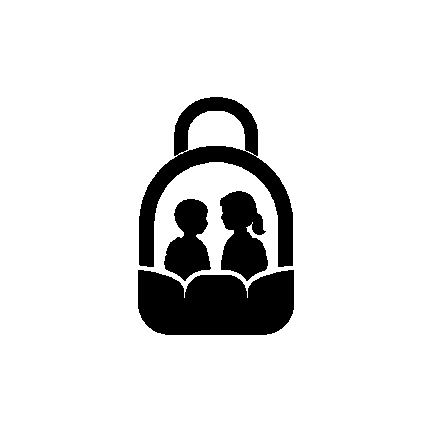
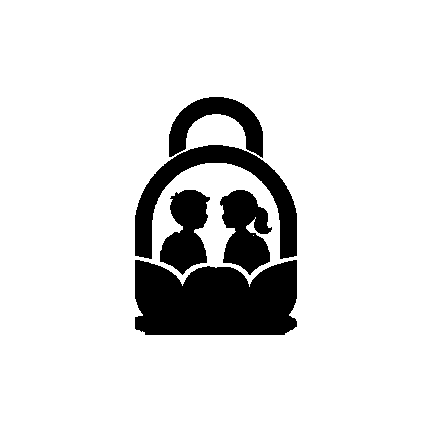
استبدال الشعار بالنسخة الجديدة في كل وجهة
All eleven derived files are regenerated from the new artwork: the app icon,
the Android adaptive layers, the splash, the favicon, the four PWA sizes and
the link-preview card. The sign-in screen imports assets/icon.png directly, so
it followed without a second change.

The crop boxes were re-measured, not reused — the composition moved (MARK is
now 231,163 561x823, LOCKUP 155,163 737x1162). Separating the two needed care:
at an ink threshold of 60 the bag's drop shadow bridges the gap to the wordmark
and they scan as one block. At 90 and above they part cleanly at y≈985, which
is what the boxes are taken from.

The ground also changed, #FCF7F1 to #FFFBF0, so the five surfaces that sit
behind the artwork move with it — backgroundColor, the splash, the Android
adaptive background in app.json, and background_color in the manifest.
Leaving any of them behind would draw a pale square around the logo. The brand
README now says so in as many words, since the next logo change will hit it.

Verified by fetching every icon the built page declares, the way the browser
does: nine targets, all 200, all at the new sizes.

The previous logo stays in brand/ for reference; nothing derives from it.

diff --git a/brand/README.md b/brand/README.md
@@ -1,18 +1,21 @@
 # العلامة البصرية
 
-`logo.png` هو **المصدر الوحيد** لكل أيقونات التطبيق — 1254×1254، بلا شفافية،
-خلفيته `#FCF7F1`. كل ملف في `apps/mobile/assets/` و `apps/mobile/public/`
-مشتقّ منه، فلا تعدّلها يدوياً: عدّل المصدر وأعد التوليد.
+`logo.jpeg` هو **المصدر الوحيد** لكل أيقونات التطبيق — 1024×1536، خلفيته `#FFFBF0`.
+كل ملف في `apps/mobile/assets/` و `apps/mobile/public/` مشتقّ منه، فلا تعدّلها
+يدوياً: عدّل المصدر وأعد التوليد.
+
+> `logo.png` هو الشعار السابق، محفوظ للرجوع إليه فقط ولا يُشتقّ منه شيء.
 
 ## الاقتطاعان
 
-قياسات بالبكسل داخل المصدر، مستخرجة بمسح البكسل (كل ما يفرق عن لون الخلفية
-بأكثر من 26 في مجموع RGB يُعدّ حبراً):
+قياسات بالبكسل داخل المصدر، مستخرجة بمسح البكسل. الفصل بين الرمز والكلمة عند
+`y≈985`: عتبة الحبر عند 60 تجعل ظلّ الحقيبة يجسر الفجوة فتبدو الكتلتان واحدة،
+وعند 90 فأعلى ينفصلان بثبات.
 
 | الاسم    | x   | y   | العرض | الارتفاع | المحتوى             |
 | -------- | --- | --- | ----- | -------- | ------------------- |
-| `MARK`   | 348 | 81  | 556   | 847      | الحقيبة وحدها       |
-| `LOCKUP` | 348 | 81  | 556   | 1114     | الحقيبة + «أكبادنا» |
+| `MARK`   | 231 | 163 | 561   | 823      | الحقيبة وحدها       |
+| `LOCKUP` | 155 | 163 | 737   | 1162     | الحقيبة + «أكبادنا» |
 
 `MARK` وحده يُستخدم في الأيقونات — الكلمة تصبح غير مقروءة تحت ~64 بكسل،
 وأندرويد يقصّ الأيقونة دائرياً فيبترها.
@@ -23,35 +26,38 @@
 
 | الملف                                | المقاس   | الاقتطاع | fit  | الخلفية               |
 | ------------------------------------ | -------- | -------- | ---- | --------------------- |
-| `assets/icon.png`                    | 1024²    | MARK     | 0.72 | `#FCF7F1`             |
+| `assets/icon.png`                    | 1024²    | MARK     | 0.72 | `#FFFBF0`             |
 | `assets/android-icon-foreground.png` | 512²     | MARK     | 0.60 | شفافة                 |
-| `assets/android-icon-background.png` | 512²     | —        | —    | `#FCF7F1`             |
+| `assets/android-icon-background.png` | 512²     | —        | —    | `#FFFBF0`             |
 | `assets/android-icon-monochrome.png` | 432²     | MARK     | 0.55 | ظلّية سوداء على شفافة |
-| `assets/splash-icon.png`             | 1024²    | LOCKUP   | 0.80 | `#FCF7F1`             |
-| `assets/favicon.png`                 | 512²     | MARK     | 0.80 | `#FCF7F1`             |
-| `public/icon-192.png`                | 192²     | MARK     | 0.80 | `#FCF7F1`             |
-| `public/icon-512.png`                | 512²     | MARK     | 0.80 | `#FCF7F1`             |
-| `public/icon-maskable-512.png`       | 512²     | MARK     | 0.58 | `#FCF7F1`             |
-| `public/apple-touch-icon.png`        | 180²     | MARK     | 0.80 | `#FCF7F1`             |
-| `public/og.png`                      | 1200×630 | LOCKUP   | 0.86 | `#FCF7F1`             |
+| `assets/splash-icon.png`             | 1024²    | LOCKUP   | 0.80 | `#FFFBF0`             |
+| `assets/favicon.png`                 | 512²     | MARK     | 0.80 | `#FFFBF0`             |
+| `public/icon-192.png`                | 192²     | MARK     | 0.80 | `#FFFBF0`             |
+| `public/icon-512.png`                | 512²     | MARK     | 0.80 | `#FFFBF0`             |
+| `public/icon-maskable-512.png`       | 512²     | MARK     | 0.58 | `#FFFBF0`             |
+| `public/apple-touch-icon.png`        | 180²     | MARK     | 0.80 | `#FFFBF0`             |
+| `public/og.png`                      | 1200×630 | LOCKUP   | 0.86 | `#FFFBF0`             |
+
+شاشة الدخول تستورد `assets/icon.png` مباشرةً، فتتبع المصدر بلا خطوة إضافية.
 
 **لماذا `fit` أصغر في `maskable` و `android-icon-foreground`:** أندرويد يقصّ
 الأيقونة بأشكال مختلفة (دائرة، مربع مستدير…) ولا يضمن ظهور إلا الـ 66% الداخلية،
 وكذلك شارة `maskable` في PWA. القيم 0.58–0.60 تبقي الرمز كاملاً داخل تلك المنطقة
 الآمنة مهما كان شكل القصّ.
 
-**لماذا الخلفية كريمية في كل مكان:** الشعار مرسوم على `#FCF7F1`، فلو وُضع على
+**لماذا الخلفية كريمية في كل مكان:** الشعار مرسوم على `#FFFBF0`، فلو وُضع على
 أبيض لظهر مربّع باهت حوله. لذلك `app.json` يضبط `backgroundColor` وخلفية شاشة
-البدء وخلفية أيقونة أندرويد على القيمة نفسها.
+البدء وخلفية أيقونة أندرويد، و `manifest.json` يضبط `background_color`، على
+القيمة نفسها. **عند تغيير الشعار يجب تغيير هذه المواضع الخمسة معه.**
 
 ## إعادة التوليد
 
-عدّل `logo.png` ثم أعد قصّ الجدول أعلاه بأي أداة (Sharp، ImageMagick، Figma).
+عدّل المصدر ثم أعد قصّ الجدول أعلاه بأي أداة (Sharp، ImageMagick، Figma).
 تحقّق من الاقتطاعين أولاً — إن تغيّر تكوين الشعار تغيّرت الإحداثيات.
 
 ```bash
 # مثال بـ ImageMagick لأيقونة التطبيق
-magick logo.png -crop 556x847+348+81 +repage \
-  -resize 737x737 -background '#FCF7F1' -gravity center -extent 1024x1024 \
+magick logo.jpeg -crop 561x823+231+163 +repage \
+  -resize 737x737 -background '#FFFBF0' -gravity center -extent 1024x1024 \
   ../apps/mobile/assets/icon.png
 ```
